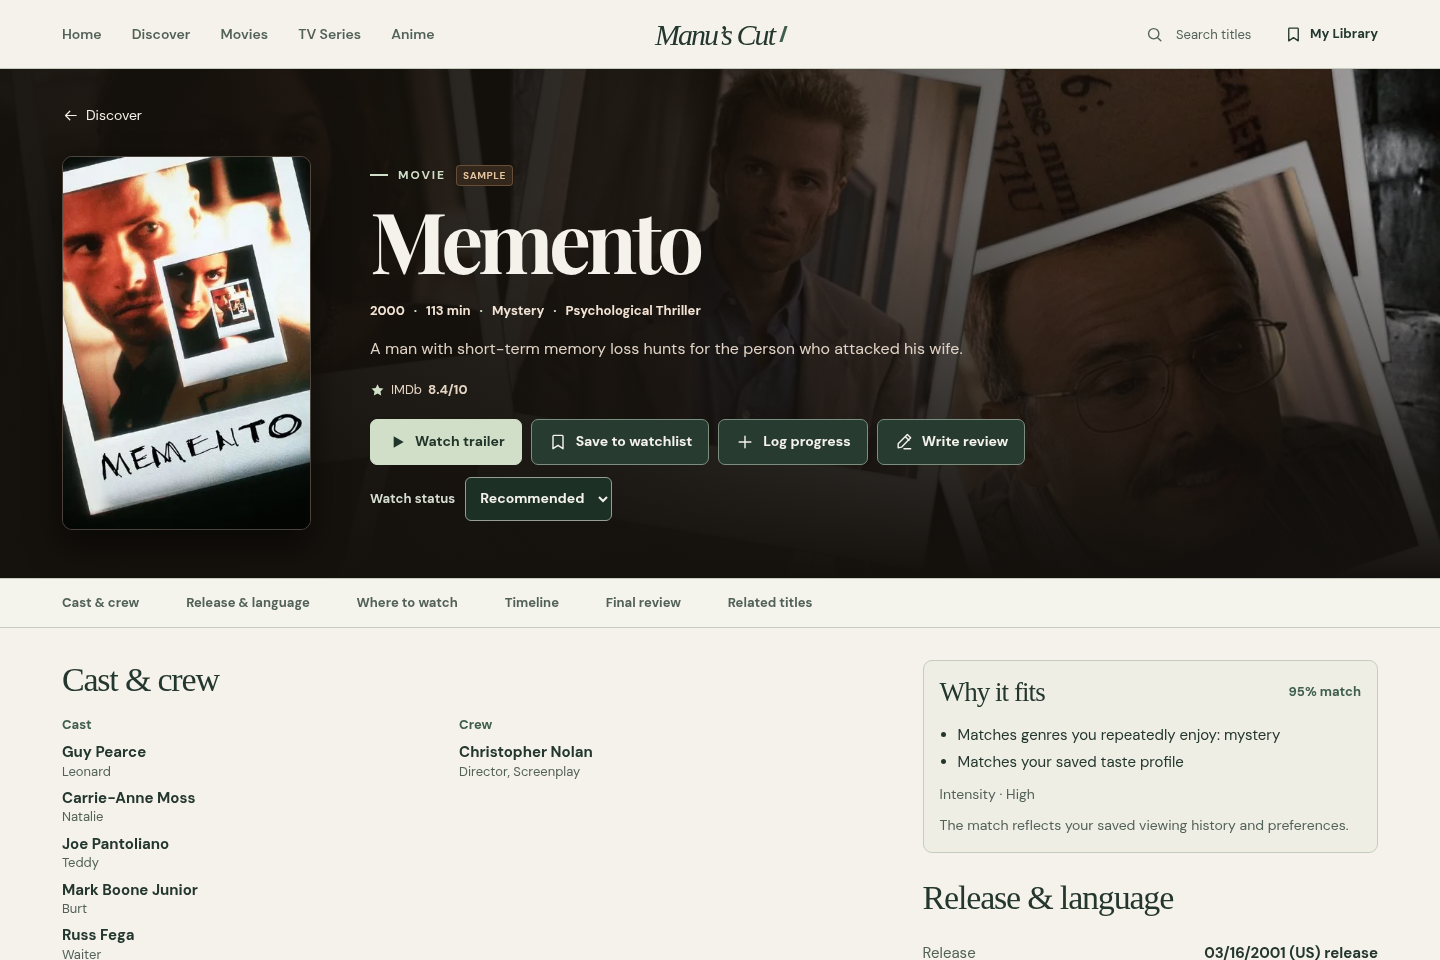
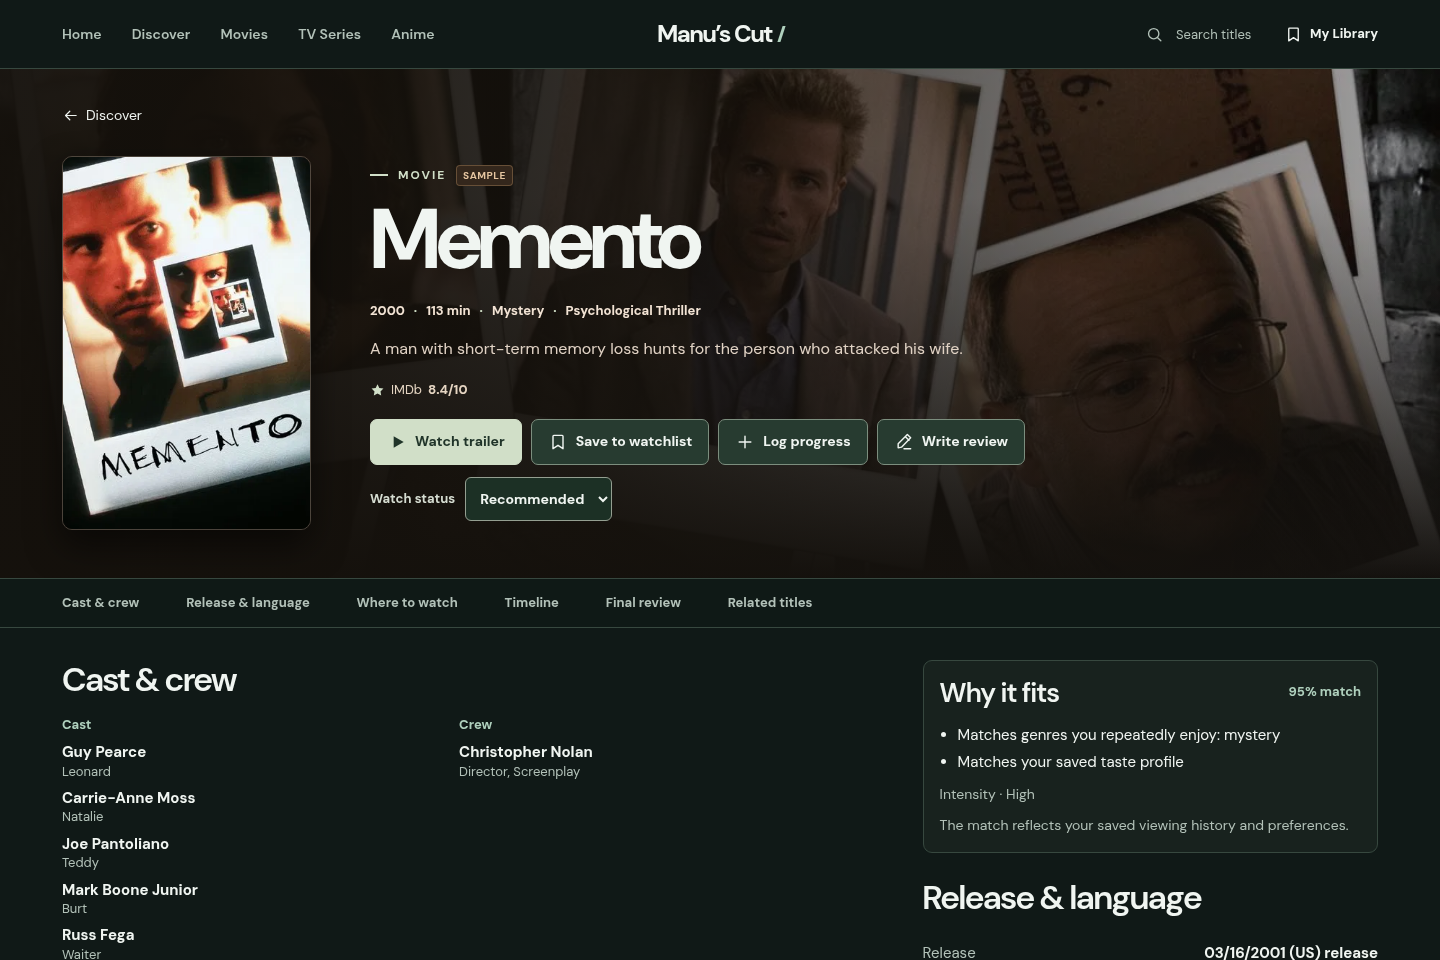
Give Manu’s Cut an immersive dark cinema layout

diff --git a/frontend/app/cut.css b/frontend/app/cut.css
@@ -1,19 +1,19 @@
 .cut {
-  --cut-bg: #f4f2eb;
-  --cut-panel: #eeeee5;
-  --cut-panel-raised: #e6e9df;
-  --cut-border: #c6ccbd;
-  --cut-text: #24372e;
-  --cut-muted: #536258;
-  --cut-accent: #405e4e;
+  --cut-bg: #101917;
+  --cut-panel: #18221e;
+  --cut-panel-raised: #202e28;
+  --cut-border: #37483f;
+  --cut-text: #f0f5f1;
+  --cut-muted: #b2c1b8;
+  --cut-accent: #afd0bd;
   --cut-pad: clamp(20px, 4.3vw, 76px);
-  --cut-serif: "Playfair Display", Georgia, serif;
+  --cut-display: "DM Sans", system-ui, sans-serif;
   background: var(--cut-bg);
   color: var(--cut-text);
   font-family: "DM Sans", system-ui, sans-serif;
   font-size: 15px;
   line-height: 1.5;
-  color-scheme: light;
+  color-scheme: dark;
   min-height: 100vh;
   isolation: isolate;
 }
@@ -33,8 +33,8 @@
 
 .cut-header { border-bottom: 1px solid var(--cut-border); position: relative; z-index: 5; }
 .cut-header-inner { min-height: 68px; width: min(100%, 1600px); margin: auto; padding-inline: var(--cut-pad); display: grid; grid-template-columns: minmax(0, 1fr) auto minmax(0, 1fr); align-items: center; gap: clamp(12px, 2.35vw, 36px); }
-.cut-footer-brand { white-space: nowrap; font: 700 25px/1.1 var(--cut-serif); letter-spacing: -.04em; }
-.cut-brand { grid-column: 2; grid-row: 1; font-family: Georgia, serif; font-style: italic; display: inline-flex; align-items: center; justify-self: start; min-height: 44px; gap: 8px; white-space: nowrap; font-size: 30px; font-weight: 400; letter-spacing: -.065em; }
+.cut-footer-brand { white-space: nowrap; font: 700 25px/1.1 var(--cut-display); letter-spacing: -.04em; }
+.cut-brand { grid-column: 2; grid-row: 1; font-family: var(--cut-display); display: inline-flex; align-items: center; justify-self: start; min-height: 44px; gap: 8px; white-space: nowrap; font-size: 24px; font-weight: 750; letter-spacing: -.065em; }
 .cut-brand-mark { width: 3px; height: 16px; background: var(--cut-accent); transform: skewX(-18deg); }
 .cut-nav { grid-column: 1; grid-row: 1; align-items: stretch; gap: clamp(12px, 2.1vw, 33px); height: 68px; }
 .cut-nav a { position: relative; display: grid; align-items: center; white-space: nowrap; color: var(--cut-muted); font-size: 14px; font-weight: 550; }
@@ -61,25 +61,26 @@
 .cut-detail-hero { position: relative; isolation: isolate; }
 .cut-detail-hero::after { content: ""; position: absolute; inset: 0; z-index: -1; pointer-events: none; }
 
-.cut-hero { display: grid; grid-template-columns: minmax(0, 1.25fr) minmax(0, .8fr); grid-template-areas: "art copy" "picks copy"; align-items: center; column-gap: clamp(26px, 4vw, 68px); padding-block: clamp(23px, 3.2vw, 54px) 24px; }
-.cut-hero-visual { grid-area: art; aspect-ratio: 1.87; padding: clamp(6px, .8vw, 12px); background: #e4e7dd; overflow: hidden; border: 1px solid #ffffff26; border-radius: 3px; }
+.cut-hero { position: relative; isolation: isolate; display: flex; flex-direction: column; justify-content: flex-end; min-height: clamp(440px, 36vw, 595px); padding-block: 60px 24px; }
+.cut-hero-visual { position: absolute; inset: 0; z-index: -1; overflow: hidden; }
+.cut-hero-visual::after { content: ""; position: absolute; inset: 0; background: linear-gradient(90deg, #101917ed 0%, #101917cf 30%, transparent 80%), linear-gradient(0deg, var(--cut-bg), transparent 64%); }
 .cut-hero-visual .cut-art { background: #201b17; }
 .cut-hero-visual .cut-art-wide img { object-position: 50% 46%; }
 .cut-hero-visual .cut-art-wide:not(.has-backdrop) img { width: 100%; margin: 0; object-fit: contain; opacity: 1; }
 .cut-hero-visual .cut-art-fallback { position: static; transform: none; }
-.cut-hero-copy { grid-area: copy; min-width: 0; padding-block: 12px; }
-.cut-hero-copy h1 { font: 400 clamp(48px, 6vw, 94px)/1 Georgia, serif; letter-spacing: -.055em; text-wrap: pretty; margin-bottom: 16px; }
+.cut-hero-copy { max-width: min(600px, 66%); min-width: 0; padding-block: 12px; }
+.cut-hero-copy h1 { font: 720 clamp(48px, 6vw, 94px)/1 var(--cut-display); letter-spacing: -.055em; text-wrap: pretty; margin-bottom: 16px; }
 .cut-hero-facts { color: var(--cut-muted); font-size: 13px; font-weight: 650; }
-.cut p.cut-feature-summary { max-width: 42ch; color: #46574b; font-size: 16px; line-height: 1.6; margin-top: 15px; display: -webkit-box; -webkit-box-orient: vertical; -webkit-line-clamp: 4; overflow: hidden; }
+.cut p.cut-feature-summary { max-width: 42ch; color: #d4dfd8; font-size: 16px; line-height: 1.6; margin-top: 15px; display: -webkit-box; -webkit-box-orient: vertical; -webkit-line-clamp: 4; overflow: hidden; }
 .cut-feature-actions { margin-top: 23px; }
-.cut .cut-feature-open { background: #314e40; color: #faf7ec; border-radius: 4px; min-height: 44px; }
-.cut .cut-feature-open:hover { background: #213d30; }
+.cut .cut-feature-open { background: #c2dccb; color: #12271d; border-radius: 4px; min-height: 44px; }
+.cut .cut-feature-open:hover { background: #e2eee6; }
 .cut-feature-save { display: inline-flex; align-items: center; gap: 7px; min-height: 44px; padding: 0 8px; border: 0; border-radius: 4px; background: transparent; color: var(--cut-text); font-size: 13px; font-weight: 650; }
 .cut-feature-save:hover { background: #314e4017; }
 
 .cut-kicker { display: flex; gap: 10px; align-items: center; text-transform: uppercase; color: var(--cut-accent); font-weight: 750; font-size: 12px; letter-spacing: .16em; }
 .cut-kicker > span:first-child { display: block; flex: none; width: 18px; height: 2px; background: var(--cut-accent); }
-.cut-title-copy h1, .cut-page-heading h1 { font: 700 clamp(48px, 6.15vw, 98px)/.99 var(--cut-serif); letter-spacing: -.056em; text-wrap: balance; }
+.cut-title-copy h1, .cut-page-heading h1 { font: 700 clamp(48px, 6.15vw, 98px)/.99 var(--cut-display); letter-spacing: -.056em; text-wrap: balance; }
 .cut-title-copy h1 { margin: 13px 0 20px; }
 .cut-hero-meta { display: flex; flex-wrap: wrap; gap: 4px 9px; align-items: center; font-size: 13px; font-weight: 650; color: #f2e3d4; }
 .cut-hero-meta span + span::before { content: "·"; margin-right: 9px; color: var(--cut-accent); }
@@ -87,12 +88,12 @@
 .cut p.cut-hero-description { margin: 15px 0 23px; }
 .cut-actions { display: flex; flex-wrap: wrap; align-items: center; gap: 9px; }
 .cut-btn { display: inline-flex; justify-content: center; align-items: center; gap: 8px; border-radius: 7px; border: 1px solid transparent; padding: 0 16px; min-height: 46px; font-size: 14px; line-height: 1.2; font-weight: 750; transition: background-color .16s, border-color .16s; }
-.cut .cut-primary { background: var(--cut-accent); color: #fffdf2; border-color: var(--cut-accent); }
-.cut .cut-primary:hover { background: #304f3f; border-color: #304f3f; }
+.cut .cut-primary { background: var(--cut-accent); color: #10241a; border-color: var(--cut-accent); }
+.cut .cut-primary:hover { background: #c9e3d4; border-color: #c9e3d4; }
 .cut .cut-secondary { background: var(--cut-panel); border-color: var(--cut-border); color: var(--cut-text); }
 .cut .cut-secondary:hover { background: var(--cut-panel-raised); border-color: var(--cut-muted); }
-.cut-feature-select { grid-area: picks; display: grid; grid-auto-flow: column; grid-auto-columns: minmax(0, 1fr); gap: 12px; margin-top: 13px; }
-.cut-feature-select button { min-width: 0; min-height: 44px; padding: 4px 0 0; border: 0; border-top: 1px solid #bbc4b6; background: transparent; color: var(--cut-muted); font-size: 13px; font-weight: 600; text-align: left; }
+.cut-feature-select { width: min(600px, 100%); display: grid; grid-auto-flow: column; grid-auto-columns: minmax(0, 1fr); gap: 12px; margin-top: 13px; }
+.cut-feature-select button { min-width: 0; min-height: 44px; padding: 4px 0 0; border: 0; border-top: 1px solid #718279; background: transparent; color: var(--cut-muted); font-size: 13px; font-weight: 600; text-align: left; }
 .cut-feature-select button span { display: block; overflow: hidden; text-overflow: ellipsis; white-space: nowrap; }
 .cut-feature-select button[aria-pressed="true"] { border-color: var(--cut-accent); color: var(--cut-text); }
 .cut-feature-select button:hover { color: var(--cut-text); }
@@ -100,7 +101,7 @@
 .cut-home-shelves { padding-top: 5px; }
 .cut-shelf { margin-bottom: 34px; }
 .cut-shelf-top { display: flex; justify-content: space-between; align-items: center; gap: 12px; margin-bottom: 11px; }
-.cut-shelf h2, .cut-detail-section h2 { font: 400 clamp(24px, 2.42vw, 34px)/1.15 Georgia, serif; letter-spacing: -.035em; }
+.cut-shelf h2, .cut-detail-section h2 { font: 600 clamp(24px, 2.42vw, 34px)/1.15 var(--cut-display); letter-spacing: -.035em; }
 .cut-shelf-actions { display: flex; align-items: center; gap: 7px; }
 .cut-shelf-actions a { display: inline-flex; align-items: center; gap: 7px; min-height: 44px; white-space: nowrap; color: var(--cut-accent); font-size: 13px; font-weight: 700; margin-right: 2px; }
 .cut-shelf-actions a:hover, .cut-text-link:hover, .cut-text-button:hover { text-decoration: underline; }
@@ -128,7 +129,7 @@
 .cut-filter { display: grid; grid-template-columns: minmax(185px, 1.7fr) repeat(5, minmax(122px, 1fr)); gap: 10px; padding: 15px; background: var(--cut-panel); border: 1px solid var(--cut-border); border-radius: 9px; }
 .cut-filter label, .cut-form label, .cut-status-field { display: grid; gap: 5px; color: var(--cut-muted); font-size: 13px; font-weight: 650; min-width: 0; }
 .cut-filter input, .cut-filter select, .cut-form input:not([type=checkbox]), .cut-form textarea, .cut-form select, .cut-status-field select, .cut-region select { width: 100%; min-width: 0; min-height: 44px; padding: 8px 10px; border-radius: 6px; color: var(--cut-text); background: var(--cut-bg); border: 1px solid #949f91; font: inherit; font-size: 14px; }
-.cut-filter input::placeholder, .cut-form input::placeholder, .cut-form textarea::placeholder { color: #5d685d; }
+.cut-filter input::placeholder, .cut-form input::placeholder, .cut-form textarea::placeholder { color: #acbdb0; }
 .cut-input-icon { position: relative; display: block; }
 .cut-input-icon svg { position: absolute; left: 9px; top: 12px; color: var(--cut-accent); pointer-events: none; }
 .cut-input-icon input { padding-left: 35px; }
@@ -137,11 +138,11 @@
 .cut .cut-source-note { margin-block: 24px; font-size: 13px; }
 .cut-state { text-align: center; padding: clamp(24px, 6vw, 64px); border: 1px solid var(--cut-border); border-radius: 11px; background: linear-gradient(135deg, var(--cut-panel-raised), var(--cut-panel)); display: grid; gap: 10px; justify-items: center; }
 .cut-state > svg { color: var(--cut-accent); }
-.cut-state h2 { font: 700 30px/1.2 var(--cut-serif); }
+.cut-state h2 { font: 700 30px/1.2 var(--cut-display); }
 .cut-state p { color: var(--cut-muted); max-width: 54ch; }
 .cut-state :is(.cut-btn, .cut-actions) { margin-top: 7px; }
 .cut-body-spacing, .cut-empty-home { padding-block: 44px 62px; }
-.cut-loading { width: min(100%, 430px); height: 120px; border-radius: 10px; margin-bottom: 14px; background: linear-gradient(110deg, #e6e7df 35%, #f5f4ee 50%, #e6e7df 65%); background-size: 240% 100%; animation: cut-loading 1.8s infinite linear; }
+.cut-loading { width: min(100%, 430px); height: 120px; border-radius: 10px; margin-bottom: 14px; background: linear-gradient(110deg, #223029 35%, #33463a 50%, #223029 65%); background-size: 240% 100%; animation: cut-loading 1.8s infinite linear; }
 @keyframes cut-loading { to { background-position: -240% 0; } }
 .cut-inline-notice { border: 1px solid var(--cut-border); border-radius: 8px; background: var(--cut-panel); color: var(--cut-muted); padding: 8px 13px; margin: 12px 0; }
 .cut-toast { display: flex; align-items: center; gap: 12px; position: fixed; z-index: 10; right: var(--cut-pad); bottom: 22px; max-width: calc(100% - 2 * var(--cut-pad)); border-radius: 8px; padding: 6px 7px 6px 14px; background: var(--cut-panel); border: 1px solid var(--cut-accent); box-shadow: 0 10px 30px #0008; }
@@ -154,7 +155,7 @@
 .cut-footer nav a { display: flex; align-items: center; min-height: 44px; }
 .cut-footer nav a:hover { color: var(--cut-accent); }
 
-.cut-detail-hero { --cut-text: #f4f2eb; --cut-muted: #d5dcd1; --cut-accent: #d1dfc8; --cut-panel: #273b30; --cut-panel-raised: #354c3f; --cut-bg: #1c3025; --cut-border: #7c8e7e; color: var(--cut-text); color-scheme: dark; background: #22332b; }
+.cut-detail-hero { --cut-text: #f0f5f1; --cut-muted: #d5dcd1; --cut-accent: #d1dfc8; --cut-panel: #273b30; --cut-panel-raised: #354c3f; --cut-bg: #1c3025; --cut-border: #7c8e7e; color: var(--cut-text); color-scheme: dark; background: #22332b; }
 .cut-detail-hero::after { background: linear-gradient(90deg, #15110cf6 12%, #15110ce1 40%, #15110c58 100%), linear-gradient(0deg, #13110f 0%, #13110f00 75%); }
 .cut-detail-hero .cut-primary { background: #d1dfc8; color: #203429; }
 .cut-detail-hero .cut-primary:hover { background: #e4ebdf; }
@@ -171,7 +172,7 @@
 .cut-rating.personal { background: var(--cut-panel-raised); border: 1px solid var(--cut-border); border-radius: 6px; padding: 4px 7px; font-weight: 700; }
 .cut-status-field { display: flex; align-items: center; gap: 10px; width: fit-content; margin-top: 12px; }
 .cut-status-field select { width: auto; min-width: 137px; color: var(--cut-text); }
-.cut-jumps { position: sticky; top: 0; z-index: 4; border-block: 1px solid var(--cut-border); background: #f4f2ebf5; backdrop-filter: blur(12px); }
+.cut-jumps { position: sticky; top: 0; z-index: 4; border-block: 1px solid var(--cut-border); background: #101917f5; backdrop-filter: blur(12px); }
 .cut-jumps > .cut-container { display: flex; align-items: center; gap: clamp(15px, 3.25vw, 48px); overflow-x: auto; scrollbar-width: none; }
 .cut-jumps a { display: grid; place-items: center; white-space: nowrap; min-height: 48px; color: var(--cut-muted); font-weight: 650; font-size: 13px; }
 .cut-jumps a:hover { color: var(--cut-accent); }
@@ -207,7 +208,7 @@
 .cut-timeline-meta { justify-content: space-between; }
 .cut-timeline-meta strong { color: var(--cut-accent); }
 .cut-timeline h3, .cut-review h3 { margin: 10px 0 4px; font-size: 20px; }
-.cut-review h3 { font: 700 26px/1.2 var(--cut-serif); }
+.cut-review h3 { font: 700 26px/1.2 var(--cut-display); }
 .cut-prose { white-space: pre-wrap; overflow-wrap: anywhere; }
 .cut-point-meta, .cut-tags { margin-top: 9px; }
 .cut .cut-tags { display: flex; flex-wrap: wrap; list-style: none; padding: 0; gap: 6px; margin-top: 11px; }
@@ -221,7 +222,7 @@
 .cut-dialog::backdrop { background: #0a0807cc; }
 .cut-dialog-heading, .cut-dialog-actions { display: flex; align-items: center; justify-content: space-between; gap: 10px; }
 .cut-dialog-heading { margin-bottom: 14px; }
-.cut-dialog-heading h2 { font: 700 30px/1.1 var(--cut-serif); }
+.cut-dialog-heading h2 { font: 700 30px/1.1 var(--cut-display); }
 .cut-dialog-actions { justify-content: flex-end; }
 .cut-form { display: grid; gap: 11px; }
 .cut-form-row { display: flex; align-items: flex-end; gap: 9px; }
@@ -231,7 +232,7 @@
 .cut-checkbox input { width: 18px; height: 18px; flex: none; accent-color: var(--cut-accent); }
 .cut-more-fields { border-top: 1px solid var(--cut-border); }
 .cut-more-fields > :not(summary) { margin-bottom: 9px; }
-.cut-error-text { color: #9b3229; }
+.cut-error-text { color: #ffa99b; }
 .cut-draft { display: grid; gap: 9px; background: var(--cut-panel-raised); border: 1px solid var(--cut-border); border-radius: 8px; padding: 12px; }
 .cut-ai-button { justify-self: start; }
 .cut-add { min-width: min(350px, 100%); background: var(--cut-panel); padding: 14px; border: 1px solid var(--cut-border); border-radius: 9px; }
@@ -251,8 +252,9 @@
   .cut-detail-grid { grid-template-columns: minmax(0, 1.45fr) minmax(250px, 1fr); gap: 30px; }
 }
 @media (max-width: 720px) {
-  .cut-hero { grid-template-columns: minmax(0, 1fr); grid-template-areas: "art" "copy" "picks"; padding-block: 16px 14px; }
-  .cut-hero-copy { padding-block: 19px 0; }
+  .cut-hero { min-height: 470px; padding-block: 165px 12px; }
+  .cut-hero-visual::after { background: linear-gradient(0deg, var(--cut-bg) 1%, #101917f0 38%, #101917a8 60%, transparent 95%); }
+  .cut-hero-copy { max-width: 100%; padding-block: 12px 0; }
   .cut-hero-copy h1 { font-size: clamp(44px, 11vw, 68px); margin-bottom: 9px; }
   .cut p.cut-feature-summary { font-size: 14px; margin-top: 9px; -webkit-line-clamp: 3; }
   .cut-feature-actions { margin-top: 14px; }

diff --git a/frontend/components/cut/browse.tsx b/frontend/components/cut/browse.tsx
@@ -24,7 +24,7 @@ function Featured({ titles, saving, save }: { titles: CutTitle[]; saving: string
 
   return <section className="cut-container cut-hero" aria-label="Featured titles">
     <div className="cut-hero-visual">
-      <Artwork title={title} backdrop eager sizes="(max-width: 720px) 94vw, (max-width: 1600px) 59vw, 940px"/>
+      <Artwork title={title} backdrop eager sizes="(max-width: 1600px) 100vw, 1600px"/>
     </div>
     <div className="cut-hero-copy" aria-live="polite">
       <h1>{title.title}</h1>
